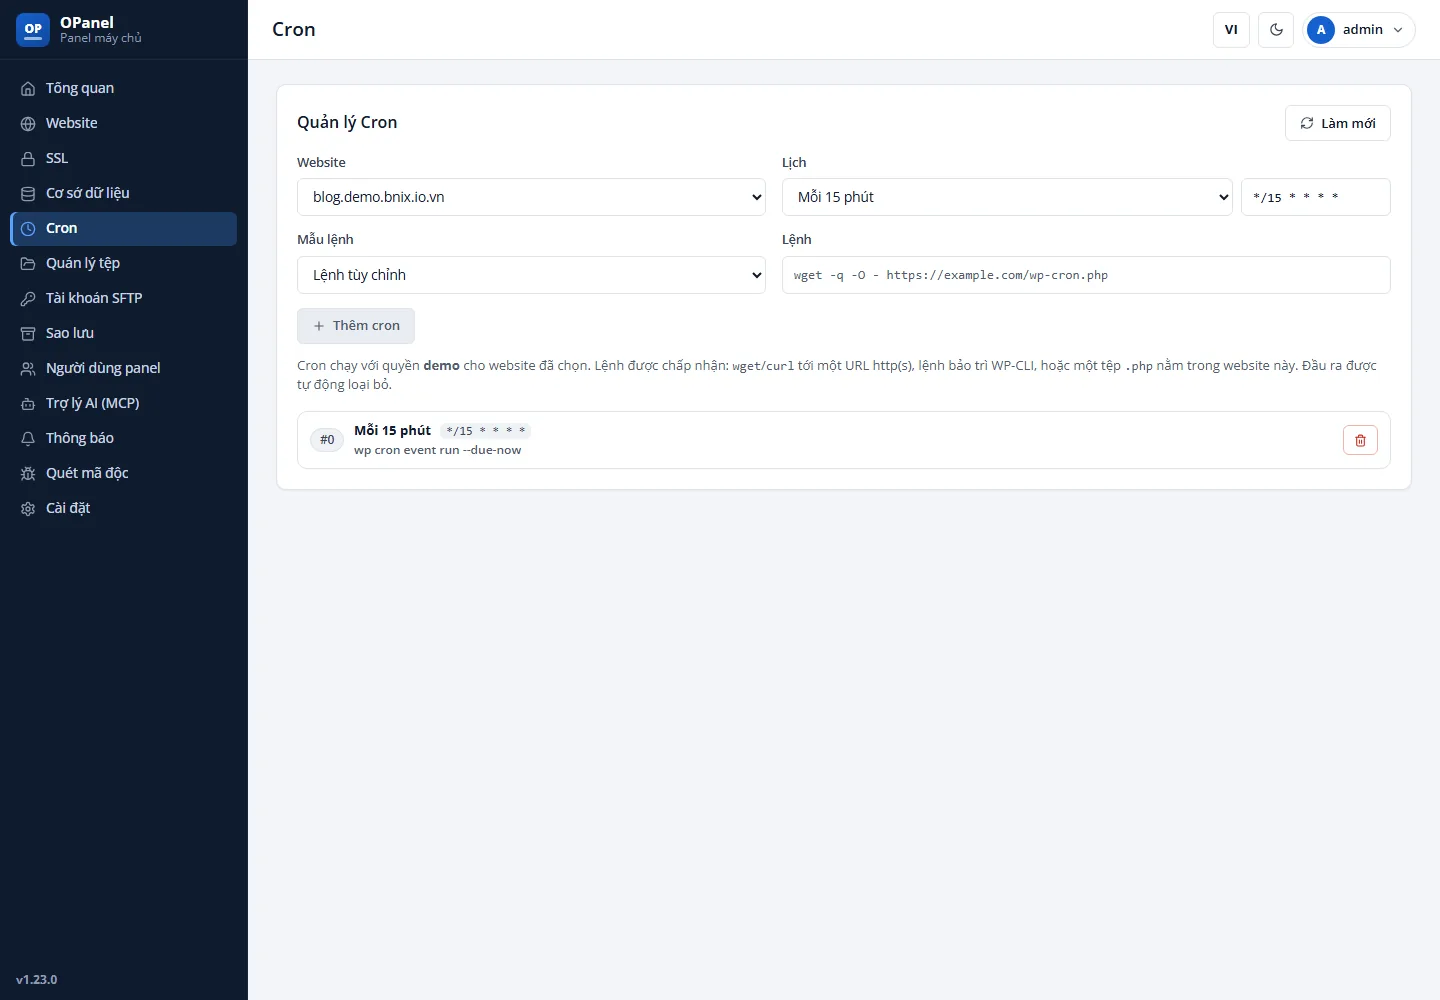
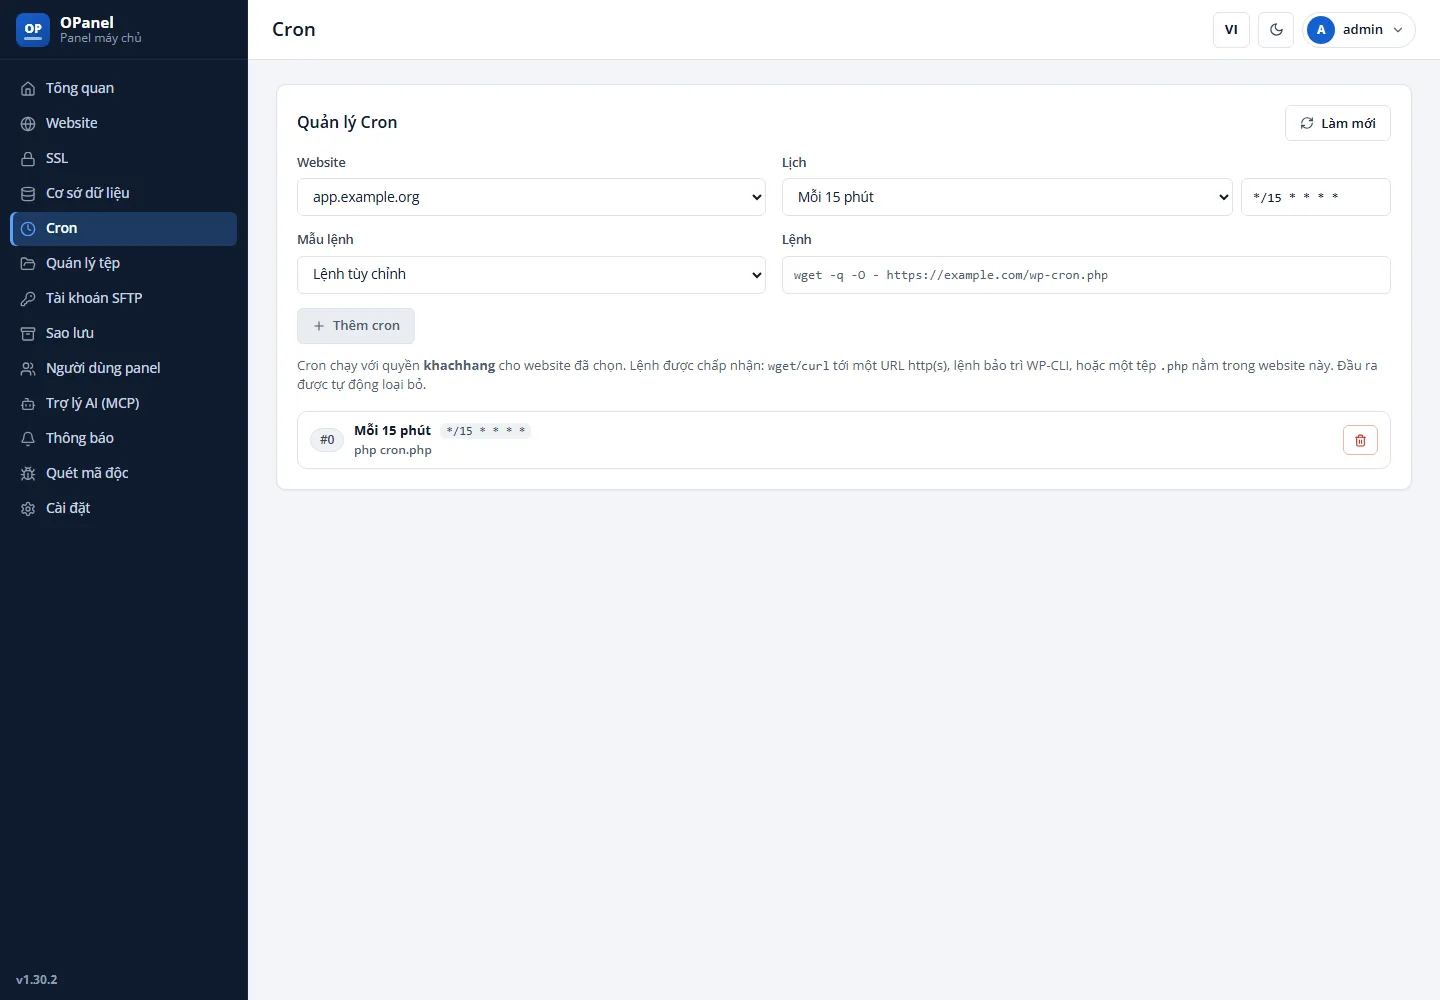
docs: retake the README screenshots on 1.30
Every screenshot is retaken on v1.30.2 with sample data under example
domains and documentation address ranges: the cPanel-style dashboard,
the reseller and limit fields, and a new one of a customer's Resource
usage page (the Resource limits addon).

Claude-Session: https://claude.ai/code/session_01937bkGa9dEHkMmvXKdznFV

diff --git a/README.md b/README.md
@@ -23,7 +23,7 @@
 <tr><td width="50%"><a href="docs/screenshots/updates.webp"><img src="docs/screenshots/updates.webp" alt="Cập nhật"></a><br><sub>Cập nhật</sub></td><td width="50%"><a href="docs/screenshots/addons.webp"><img src="docs/screenshots/addons.webp" alt="Addon"></a><br><sub>Addon</sub></td></tr>
 <tr><td width="50%"><a href="docs/screenshots/malware.webp"><img src="docs/screenshots/malware.webp" alt="Quét mã độc"></a><br><sub>Quét mã độc</sub></td><td width="50%"><a href="docs/screenshots/mcp.webp"><img src="docs/screenshots/mcp.webp" alt="Trợ lý AI (MCP)"></a><br><sub>Trợ lý AI (MCP)</sub></td></tr>
 <tr><td width="50%"><a href="docs/screenshots/notifications.webp"><img src="docs/screenshots/notifications.webp" alt="Thông báo qua email và Telegram"></a><br><sub>Thông báo qua email và Telegram</sub></td><td width="50%"><a href="docs/screenshots/customer-dashboard.webp"><img src="docs/screenshots/customer-dashboard.webp" alt="Tổng quan của khách hosting"></a><br><sub>Tổng quan của khách hosting</sub></td></tr>
-<tr><td width="50%"><a href="docs/screenshots/customer-websites.webp"><img src="docs/screenshots/customer-websites.webp" alt="Website của khách hosting"></a><br><sub>Website của khách hosting</sub></td><td width="50%"></td></tr>
+<tr><td width="50%"><a href="docs/screenshots/customer-websites.webp"><img src="docs/screenshots/customer-websites.webp" alt="Website của khách hosting"></a><br><sub>Website của khách hosting</sub></td><td width="50%"><a href="docs/screenshots/resource-usage.webp"><img src="docs/screenshots/resource-usage.webp" alt="Mức dùng tài nguyên của khách hosting"></a><br><sub>Mức dùng tài nguyên (tiện ích Giới hạn tài nguyên)</sub></td></tr>
 </table>
 
 ## Tính năng
